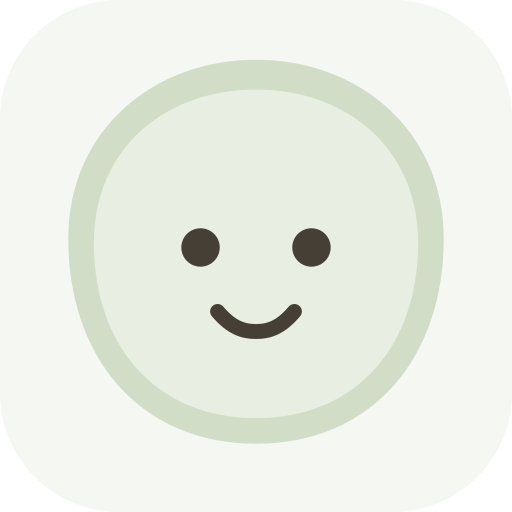
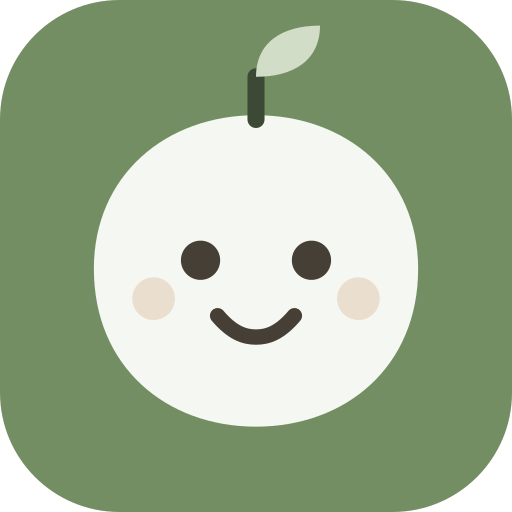
앱 로고를 새싹 머리 캐릭터(E4)로 교체
- icon.svg(파비콘 포함) 및 192/512 PNG 전면 교체
- iOS용 apple-touch-icon을 풀블리드 사각형으로 생성 (투명 모서리가
  검게 보이던 문제 해결), 안드로이드용 maskable 아이콘 별도 생성
- 서비스 워커 캐시 버전 v2로 올려 기존 사용자에게도 새 아이콘 반영

https://claude.ai/code/session_019U1yXiMadpp3zEaFjUNcEY

diff --git a/softly/public/sw.js b/softly/public/sw.js
@@ -1,6 +1,6 @@
 // Softly service worker: app-shell caching so the app opens offline.
 // All user data lives in localStorage, so caching pages is enough.
-const CACHE_NAME = "softly-v1";
+const CACHE_NAME = "softly-v2";
 
 const APP_SHELL = [
   "/",
@@ -16,6 +16,7 @@ const APP_SHELL = [
   "/icon.svg",
   "/icon-192.png",
   "/icon-512.png",
+  "/icon-maskable.png",
   "/apple-touch-icon.png",
 ];
 